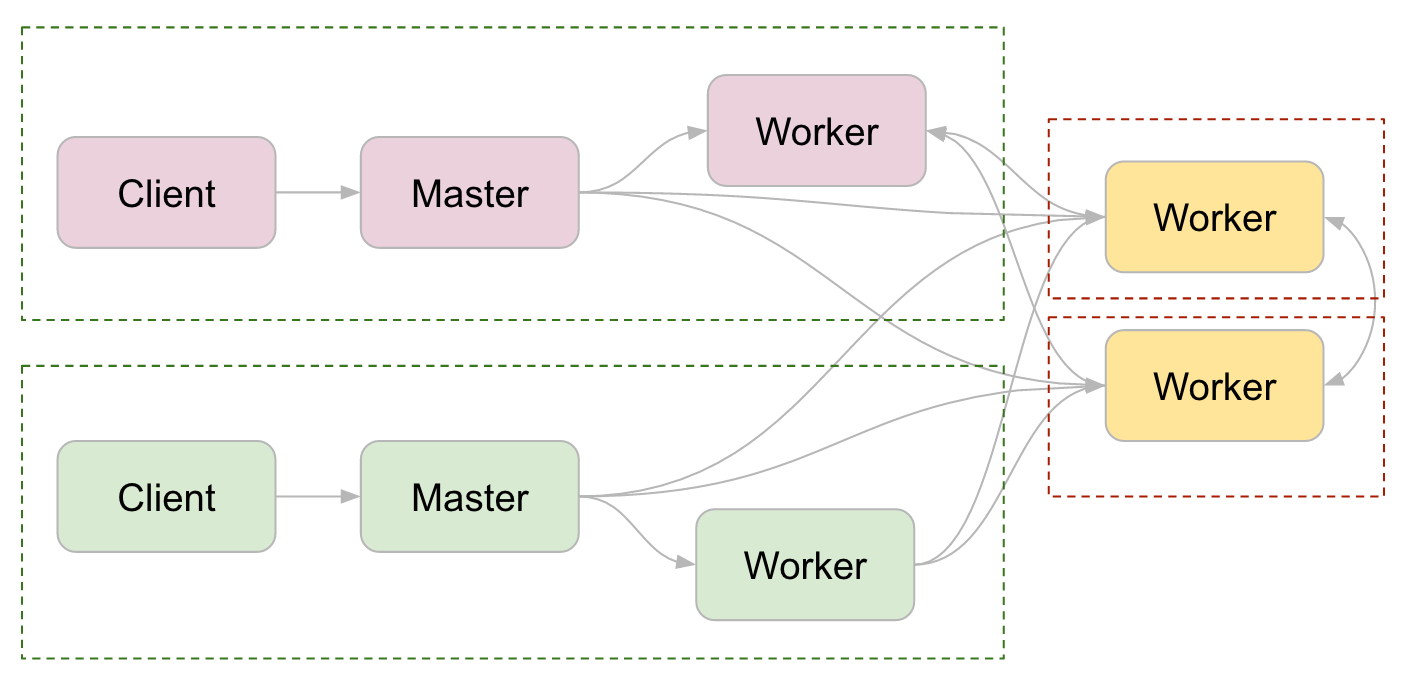
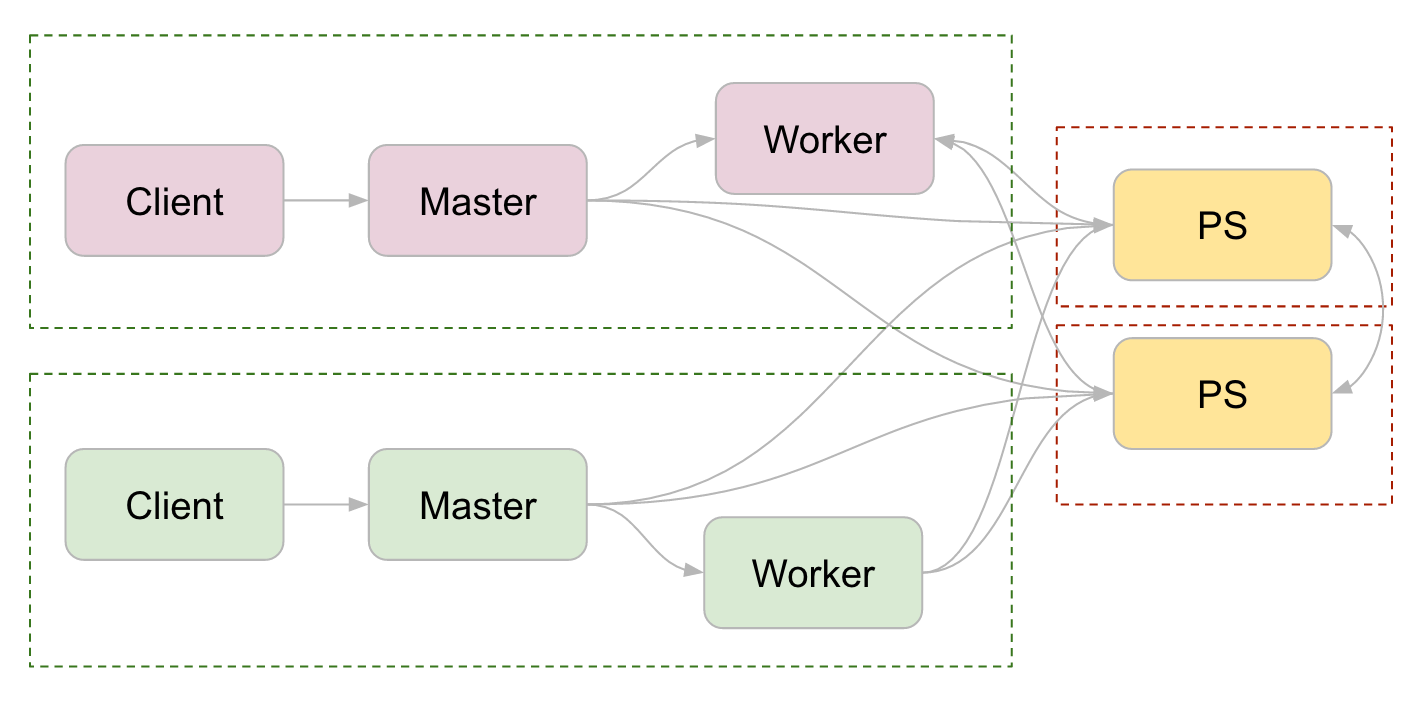
Update between-graph replication diagram and readmes. (#16)

diff --git a/marathon/README.md b/marathon/README.md
@@ -3,12 +3,12 @@
 ## Prerequisite
 Before you start, you need to set up a Mesos cluster with Marathon installed and Docker Containerizer and Mesos-DNS enabled. It is also preferable to set up some shared storage such as HDFS in the cluster. All of these could be easily installed and configured with the help of [DC/OS](https://dcos.io/docs/1.7/administration/installing/custom/gui/). You need to remember the master target, DNS domain and HDFS namenode which are needed to bring up the TensorFlow cluster.
 
-## Write your training program
-This section covers instructions on how to write your trainer program, and build your docker image.
+## Write the Training Program
+This section covers instructions on how to write your training program and build your docker image.
 
  1. Write your own training program. This program must accept `worker_hosts`, `ps_hosts`, `job_name`, `task_index` as command line flags which are then parsed to build `ClusterSpec`. After that, the task either joins with the server or starts building graphs. Please refero to the [main page](../README.md) for code snippets and description of between-graph replication. An example can be found in `docker/mnist_replica.py`.
 
-   In the case of large training input is needed by the training program, we recommend copying your data to shared storage first and then point each worker to the data. You may want to add a flag called `data_dir`. Please refer to the [adding flags](## Add Commandline Flags) section.
+   In the case of large training input is needed by the training program, we recommend copying your data to shared storage first and then point each worker to the data. You may want to add a flag called `data_dir`. Please refer to the [adding flags](#add-commandline-flags) section for adding this flag into the marathon config.
 
  2. Write your own Docker file which simply copies your training program into the image and optionally specify an entrypoint. An example is located in `docker/Dockerfile` or `docker/Dockerfile.hdfs` if you need the HDFS support. TensorBoard can also use the same image, but with a different entry point.
 
@@ -32,14 +32,15 @@ The Marathon config is generated from a Jinja template where you need to customi
   cp marathon/template.json.jinja mycluster.json.jinja
   ```
 
- 2. Edit the `mycluster.json.jinja` file. You need to specify the `name`, `image_name`, `train_dir` and optionally change number of worker and ps replicas. The `train_dir` must point to the directory on shared storage if you would like to use TensorBoard or sharded checkpoint.
+ 2. Edit the `mycluster.json.jinja` file. You need to specify the `name`, `image_name`, `train_dir` and optionally change number of worker and ps replicas. The `train_dir` must point to the directory on shared storage if you would like to use TensorBoard or sharded checkpoint.  
+
  3. Generate the Marathon json config:
 
   ```sh
   python render_template.py mycluster.json.jinja > mycluster.json
   ```
 
-## Start the Tensorflow cluster
+## Start the Tensorflow Cluster
 To start the cluster, simply post the Marathon json config file to the Marathon master target which is `marathon.mesos:8080` by default:
 
   ```sh

diff --git a/README.md b/README.md
@@ -42,7 +42,9 @@ flags.DEFINE_string("worker_hosts", None,
 flags.DEFINE_string("job_name", None, "job name: worker or ps")
 ```
 
-Then, start your server. Since worker and parameter servers (ps jobs) usually share a common program, parameter servers (ps jobs) which only store variables should stop at this point and so they are joined with the server.
+Then, start your server. Since worker and parameter servers (ps jobs) usually
+share a common program, parameter servers should stop at this point and so they
+are joined with the server.
 
 ```python
 # Construct the cluster and start the server
@@ -67,7 +69,8 @@ intend on doing. The most common form is between-graph replication.
 
 In this mode, each worker separately constructs the exact same graph. Each
 worker then runs the graph in isolation, only sharing gradients with the
-parameter servers. This set up is illustrated by the following diagram. Please note that each dashed box indicates a task.
+parameter servers. This set up is illustrated by the following diagram. Please
+note that each dashed box indicates a task.
 ![Diagram for Between-graph replication]
   (images/between-graph_replication.png "Between-graph Replication")
 
@@ -97,4 +100,5 @@ sudo apt-get install python-jinja2
 sudo pip install Jinja2
 ```
 
-Jinja is used for template expansion. There are other framework-specific requirements, please refer to the README page of each framework.
+Jinja is used for template expansion. There are other framework-specific
+requirements, please refer to the README page of each framework.

diff --git a/kubernetes/README.md b/kubernetes/README.md
@@ -12,7 +12,7 @@ Kubernetes.
 
 2. [Jinja templates](http://jinja.pocoo.org/) must be installed.
 
-## Steps to running the job
+## Steps to Run the job
 
 1. Follow the instructions for creating the training program in the parent
    [README](../README.md).
@@ -34,16 +34,16 @@ write to Google Cloud Storage. See the Google Cloud Storage section below.
 
 5. Run the job:
 
-```sh
-python render_template.py myjob.template.jinja | kubectl create -f -
-```
+  ```sh
+  python render_template.py myjob.template.jinja | kubectl create -f -
+  ```
 
-If you later want to stop the job, then run:
-```sh
-python render_template.py myjob.template.jinja | kubectl delete -f -
-```
+  If you later want to stop the job, then run:
+  ```sh
+  python render_template.py myjob.template.jinja | kubectl delete -f -
+  ```
 
-# Google Cloud Storage
+## Google Cloud Storage
 
 To support reading and writing to Google Cloud Storage, you need to set up
 a [Kubernetes secret](http://kubernetes.io/docs/user-guide/secrets/) with the
